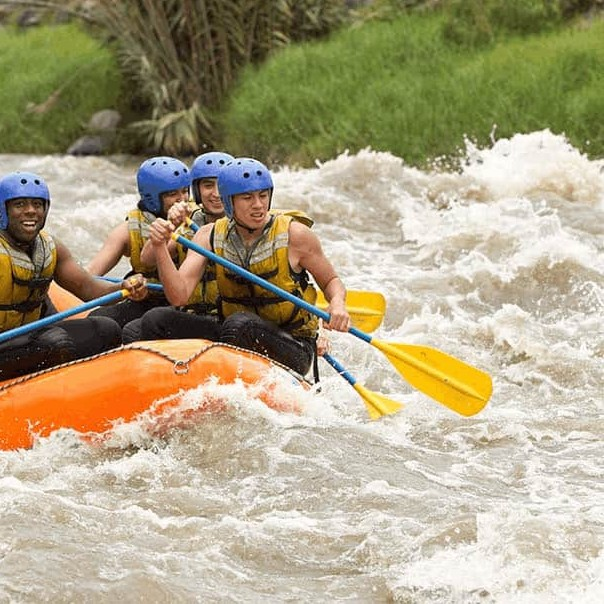
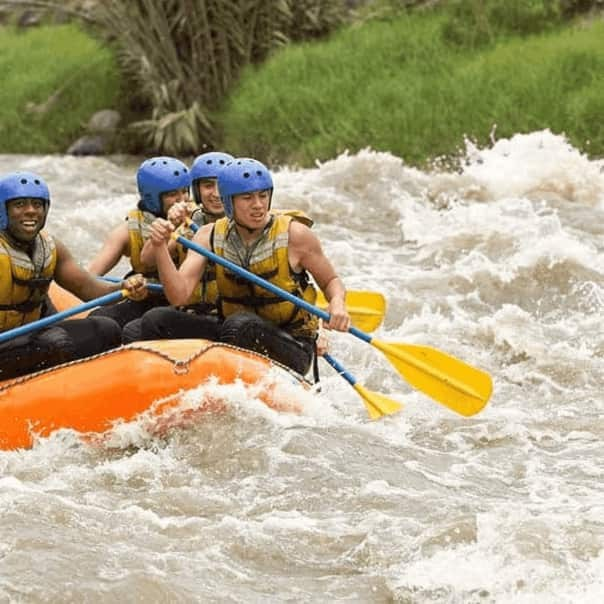
wwr project improved

diff --git a/wwr/styles/rafting.css b/wwr/styles/rafting.css
@@ -300,7 +300,7 @@ iframe {
 }
 
 .the-great-section-container-i {
-	margin: 0px 0px 32px 32px;
+	margin: 0px 78.5px 32px 78.5px;
 	padding: 16px 16px 16px 45px;
 	border: 1px solid black;
 	background-color: var(--form-grey);
@@ -383,16 +383,17 @@ iframe {
 	border-collapse: collapse;
 	/* background-color: var(--white); */
 	border: 2px solid var(--form-grey);
-	width: 99.9%;
+	width: 100%;
 }
 
 .table-t thead {
 	text-align: left;
 }
 
-.call-to-action-t p {
+.call-to-action-t button {
 	font-size: 24px;
 	font-family: cambria;
+	width: 840px;
 	font-weight: bold;
 	padding: 12px 0px 12px 34px;
 	margin: 36px 6px 36px 6px;

diff --git a/wwr/trips.html b/wwr/trips.html
@@ -146,7 +146,9 @@
 		<div class="swap-1t"
 		  id="after-'grid-container-t'-on-'html'-but-before-'grid-container-t'-after-'css'-applied">
 			<section class="call-to-action-t">
-				<p>Don't Hesitate To Reach Out: <a href="contact.html">Contact Us</a></p>
+				<form action="contact.html">
+					<button type="submit">Don't Hesitate To Reach Out: Contact Us</button>
+				</form>
 			</section>
 
 

diff --git a/wwr/index.html b/wwr/index.html
@@ -37,7 +37,7 @@
 		<!-- HERO -->
 		<section id="heroi" class="heroi hero">
 			<!-- HERO IMAGE -->
-			<img src="images/hero-img.webp"
+			<img src="images/hero-img.jpg"
 			  alt="crew having a fun time white river rafting on a safe but rapid zone doing everything wrong">
 			<h1 class="index-hero-heading">ADVENTURE IS COMING</h1>
 		</section>

diff --git a/wwr/about.html b/wwr/about.html
@@ -36,7 +36,7 @@
 
 	<main><!--class="maina"-->
 		<div class="hero">
-			<img src="images/hero-img.webp"
+			<img src="images/hero-img.jpg"
 			  alt="crew having a fun time white river rafting on a safe but rapid zone doing everything wrong">
 			<h1 class="h1a">White Water Rafting</h1>
 			<article class="articlea">
